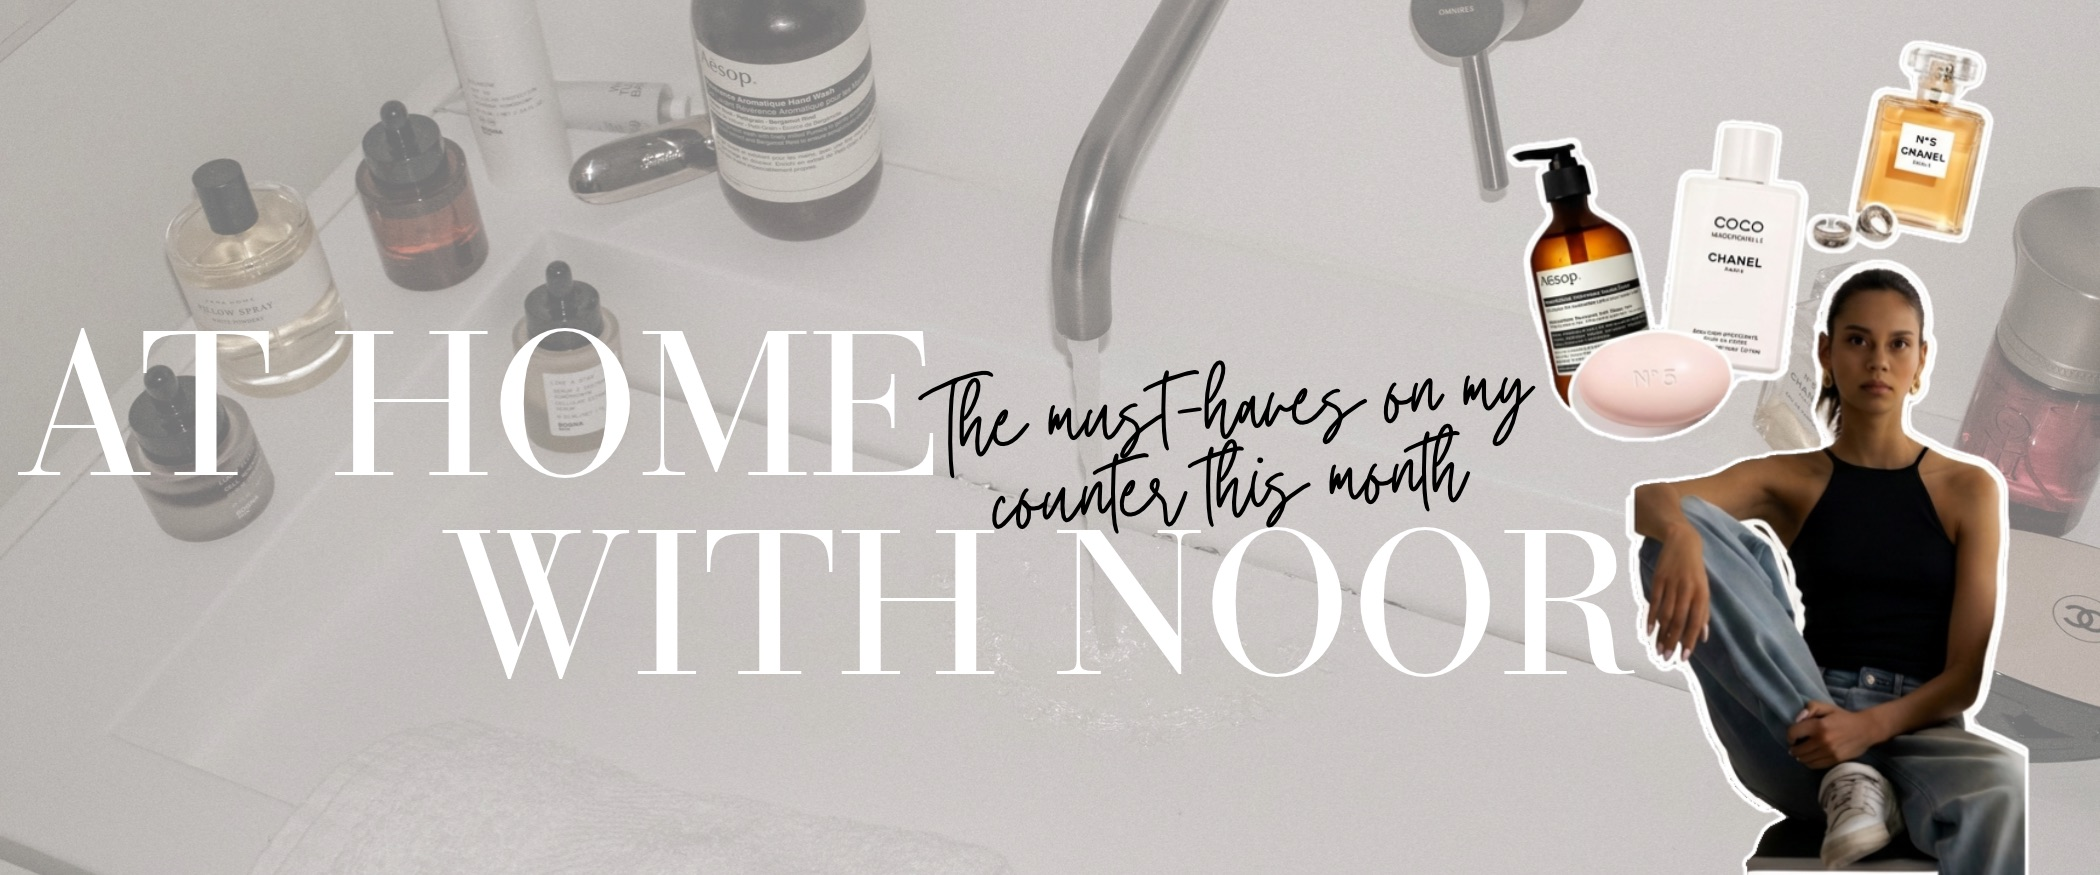
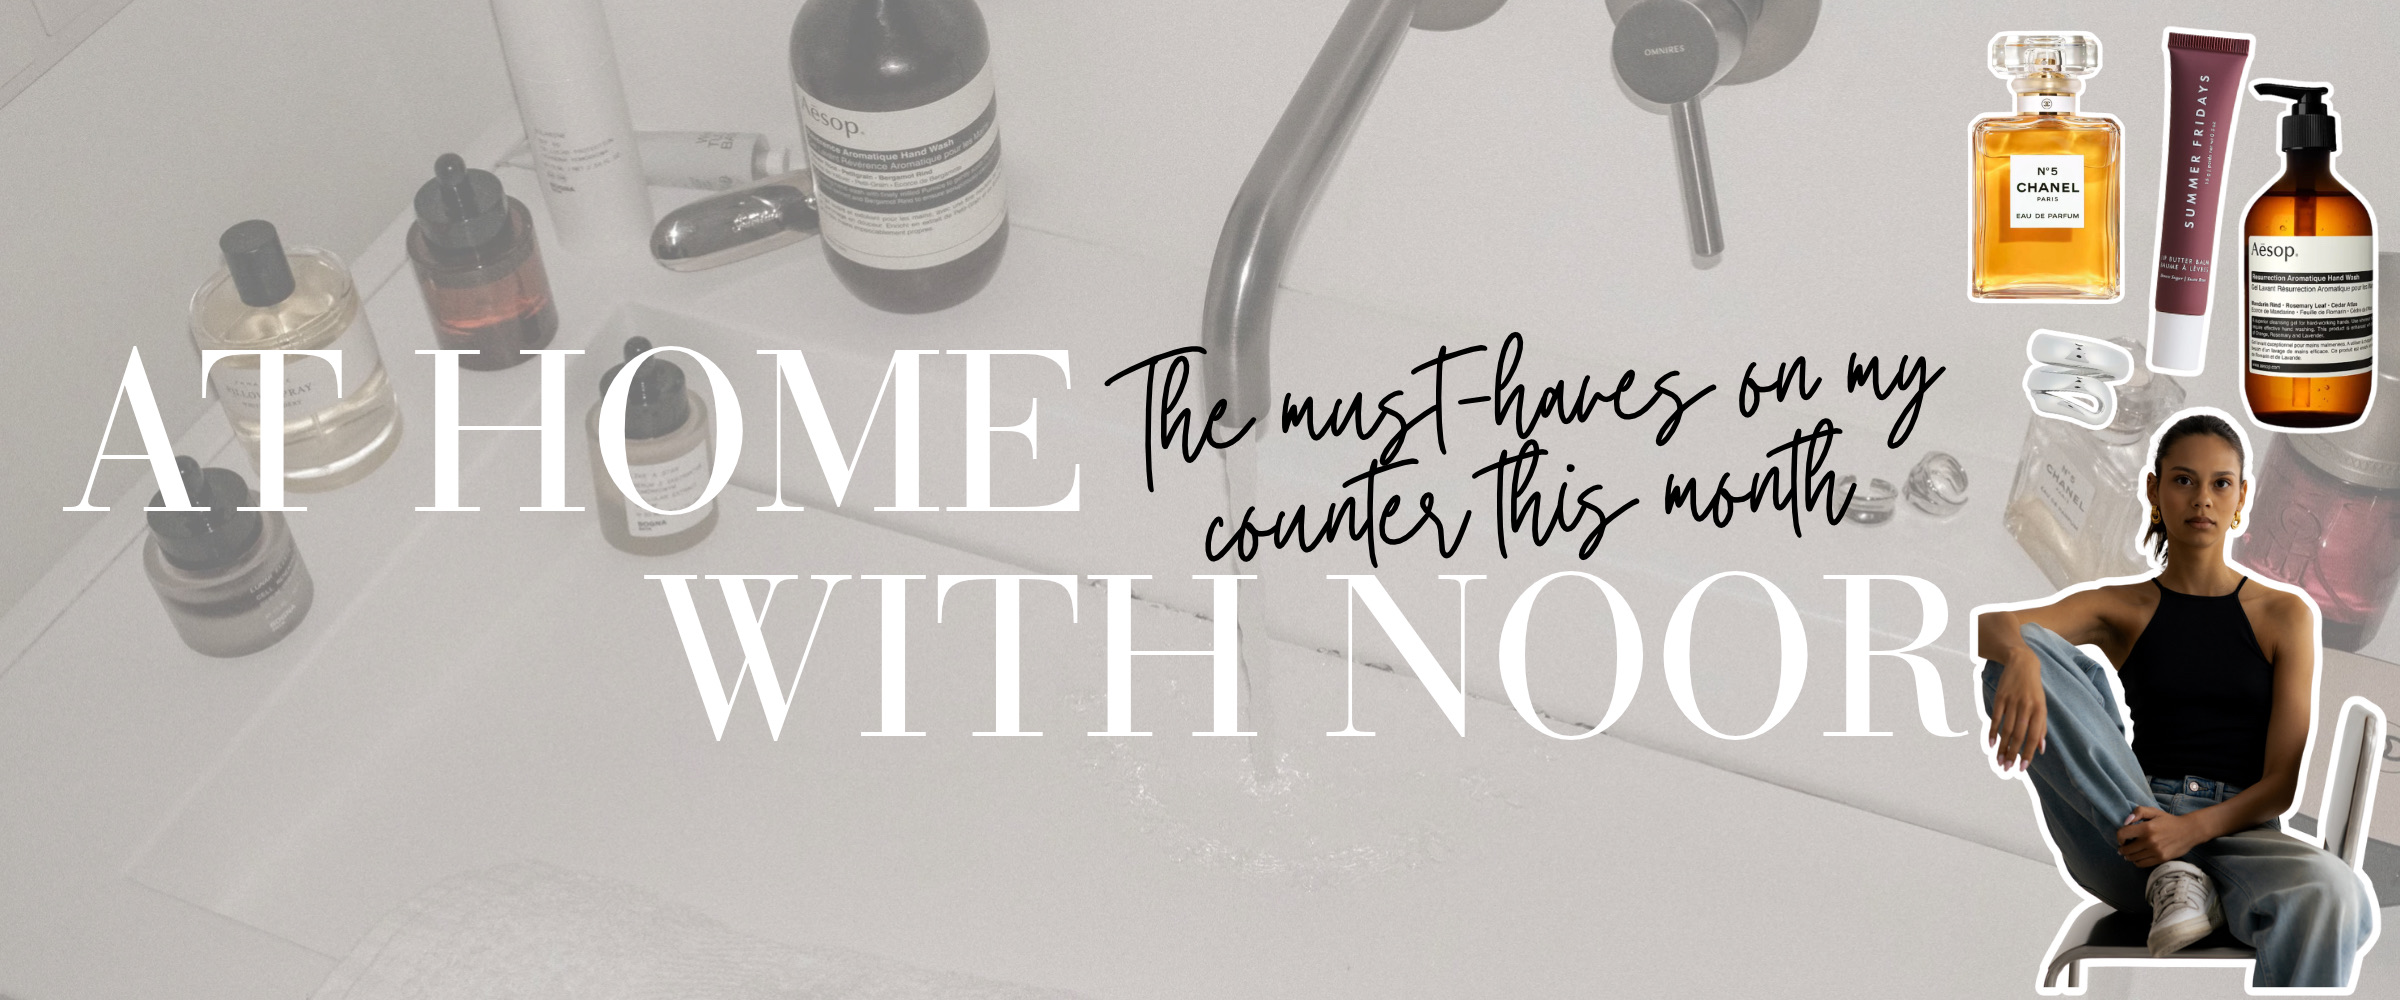
The Skin Office: sharper 2400x1000 'At Home with Noor' collage with the four featured products

diff --git a/the-skin-office/journal.html b/the-skin-office/journal.html
@@ -9,7 +9,7 @@
 <link rel="preconnect" href="https://fonts.googleapis.com">
 <link rel="preconnect" href="https://fonts.gstatic.com" crossorigin>
 <link href="https://fonts.googleapis.com/css2?family=Manrope:wght@300;400;500;600&display=swap" rel="stylesheet">
-<link rel="stylesheet" href="css/style.css?v=5">
+<link rel="stylesheet" href="css/style.css?v=6">
 </head>
 <body>
 <div class="utility">Now booking November<span class="u-extra"> &nbsp;&middot;&nbsp; Gift cards available in the studio</span></div>
@@ -33,7 +33,7 @@
 <section class="section" style="padding-top:0">
   <div class="wrap">
     <a href="at-home-with-noor.html" class="feature-post reveal">
-      <img src="images/hero-collage.jpg" alt="At Home with Noor: the products on her counter this month" width="2100" height="875" loading="lazy">
+      <img src="images/hero-collage.jpg" alt="At Home with Noor: the products on her counter this month" width="2400" height="1000" loading="lazy">
       <div class="meta"><span class="eyebrow">At Home with Noor &middot; October 2026</span><h2>The must-haves on my counter this month</h2><span class="link">Shop Noor&rsquo;s picks</span></div>
     </a>
     <div class="journal-grid"><article class="post-card reveal"><a href="journal-barrier.html"><div class="ph "><img src="images/journal-barrier.jpg" alt="" loading="lazy"><div class="ph-label"><span>Journal collage</span><small>1600 &times; 1600 &mdash; coming soon</small></div></div></a><time class="eyebrow" datetime="2026-10-14">October 14, 2026</time><h3><a href="journal-barrier.html">Your Skin Barrier, Explained</a></h3><a href="journal-barrier.html" class="link">Read</a></article><article class="post-card reveal"><a href="journal-first-facial.html"><div class="ph "><img src="images/journal-first-facial.jpg" alt="" loading="lazy"><div class="ph-label"><span>Journal collage</span><small>1600 &times; 1600 &mdash; coming soon</small></div></div></a><time class="eyebrow" datetime="2026-09-30">September 30, 2026</time><h3><a href="journal-first-facial.html">What Actually Happens in Your First Facial</a></h3><a href="journal-first-facial.html" class="link">Read</a></article><article class="post-card reveal"><a href="journal-spf.html"><div class="ph "><img src="images/journal-spf.jpg" alt="" loading="lazy"><div class="ph-label"><span>Journal collage</span><small>1600 &times; 1600 &mdash; coming soon</small></div></div></a><time class="eyebrow" datetime="2026-09-09">September 9, 2026</time><h3><a href="journal-spf.html">Why We Still Talk About SPF in November</a></h3><a href="journal-spf.html" class="link">Read</a></article></div>
@@ -65,6 +65,6 @@
     <div class="footer-bottom"><span>&copy; 2026 The Skin Office</span><span>A Meridian Haus concept site</span></div>
   </div>
 </footer>
-<script src="js/main.js?v=5"></script>
+<script src="js/main.js?v=6"></script>
 </body>
 </html>

diff --git a/the-skin-office/at-home-with-noor.html b/the-skin-office/at-home-with-noor.html
@@ -9,7 +9,7 @@
 <link rel="preconnect" href="https://fonts.googleapis.com">
 <link rel="preconnect" href="https://fonts.gstatic.com" crossorigin>
 <link href="https://fonts.googleapis.com/css2?family=Manrope:wght@300;400;500;600&display=swap" rel="stylesheet">
-<link rel="stylesheet" href="css/style.css?v=5">
+<link rel="stylesheet" href="css/style.css?v=6">
 </head>
 <body>
 <div class="utility">Now booking November<span class="u-extra"> &nbsp;&middot;&nbsp; Gift cards available in the studio</span></div>
@@ -31,7 +31,7 @@
       <p class="meta">A monthly look at what our founder, Noor Haddad, actually uses at home</p>
     </div>
   </header>
-  <div class="wrap"><img class="noor-hero" src="images/hero-collage.jpg" alt="Collage of Noor with the products on her bathroom counter" width="2100" height="875"></div>
+  <div class="wrap"><img class="noor-hero" src="images/hero-collage.jpg" alt="Collage of Noor with the products on her bathroom counter" width="2400" height="1000"></div>
   <div class="post-body" style="padding-bottom:clamp(24px,3vw,40px)">
     <p>People assume an esthetician&rsquo;s bathroom is full of serums. Mine mostly isn&rsquo;t. Most of what my skin needs happens in the treatment room; at home I keep it short, and I keep the things that make the routine feel like a ritual rather than a chore.</p>
     <p>Here is what is on my counter this month. Nothing here is sponsored, and none of it is sold in the studio. These are just the things I keep buying again.</p>
@@ -68,6 +68,6 @@
     <div class="footer-bottom"><span>&copy; 2026 The Skin Office</span><span>A Meridian Haus concept site</span></div>
   </div>
 </footer>
-<script src="js/main.js?v=5"></script>
+<script src="js/main.js?v=6"></script>
 </body>
 </html>

diff --git a/the-skin-office/index.html b/the-skin-office/index.html
@@ -9,7 +9,7 @@
 <link rel="preconnect" href="https://fonts.googleapis.com">
 <link rel="preconnect" href="https://fonts.gstatic.com" crossorigin>
 <link href="https://fonts.googleapis.com/css2?family=Manrope:wght@300;400;500;600&display=swap" rel="stylesheet">
-<link rel="stylesheet" href="css/style.css?v=5">
+<link rel="stylesheet" href="css/style.css?v=6">
 </head>
 <body>
 <div class="utility">Now booking November<span class="u-extra"> &nbsp;&middot;&nbsp; Gift cards available in the studio</span></div>
@@ -26,7 +26,7 @@
 <section class="hero" aria-roledescription="carousel" aria-label="Featured">
   <!-- Slide 1: Julianna's collage (2400x1000 or 2100x875). Hidden until the file exists; stacked above the photo on phones. -->
   <div class="slide slide-collage" hidden>
-    <a href="at-home-with-noor.html" class="slide-hit" aria-label="At Home with Noor: shop her picks"><img src="images/hero-collage.jpg" alt="At Home with Noor: the must-haves on her counter this month" width="2100" height="875"></a>
+    <a href="at-home-with-noor.html" class="slide-hit" aria-label="At Home with Noor: shop her picks"><img src="images/hero-collage.jpg" alt="At Home with Noor: the must-haves on her counter this month" width="2400" height="1000"></a>
   </div>
   <div class="slide slide-photo active">
   <img src="images/hero.jpg" alt="Close portrait of a woman with closed eyes and clear, dewy skin" width="2400" height="1600" class="grade">
@@ -142,6 +142,6 @@
     <div class="footer-bottom"><span>&copy; 2026 The Skin Office</span><span>A Meridian Haus concept site</span></div>
   </div>
 </footer>
-<script src="js/main.js?v=5"></script>
+<script src="js/main.js?v=6"></script>
 </body>
 </html>

diff --git a/the-skin-office/book.html b/the-skin-office/book.html
@@ -9,7 +9,7 @@
 <link rel="preconnect" href="https://fonts.googleapis.com">
 <link rel="preconnect" href="https://fonts.gstatic.com" crossorigin>
 <link href="https://fonts.googleapis.com/css2?family=Manrope:wght@300;400;500;600&display=swap" rel="stylesheet">
-<link rel="stylesheet" href="css/style.css?v=5">
+<link rel="stylesheet" href="css/style.css?v=6">
 </head>
 <body>
 <div class="utility">Now booking November<span class="u-extra"> &nbsp;&middot;&nbsp; Gift cards available in the studio</span></div>
@@ -116,6 +116,6 @@
     <div class="footer-bottom"><span>&copy; 2026 The Skin Office</span><span>A Meridian Haus concept site</span></div>
   </div>
 </footer>
-<script src="js/main.js?v=5"></script>
+<script src="js/main.js?v=6"></script>
 </body>
 </html>

diff --git a/the-skin-office/facials.html b/the-skin-office/facials.html
@@ -9,7 +9,7 @@
 <link rel="preconnect" href="https://fonts.googleapis.com">
 <link rel="preconnect" href="https://fonts.gstatic.com" crossorigin>
 <link href="https://fonts.googleapis.com/css2?family=Manrope:wght@300;400;500;600&display=swap" rel="stylesheet">
-<link rel="stylesheet" href="css/style.css?v=5">
+<link rel="stylesheet" href="css/style.css?v=6">
 </head>
 <body>
 <div class="utility">Now booking November<span class="u-extra"> &nbsp;&middot;&nbsp; Gift cards available in the studio</span></div>
@@ -101,6 +101,6 @@
     <div class="footer-bottom"><span>&copy; 2026 The Skin Office</span><span>A Meridian Haus concept site</span></div>
   </div>
 </footer>
-<script src="js/main.js?v=5"></script>
+<script src="js/main.js?v=6"></script>
 </body>
 </html>

diff --git a/the-skin-office/about.html b/the-skin-office/about.html
@@ -9,7 +9,7 @@
 <link rel="preconnect" href="https://fonts.googleapis.com">
 <link rel="preconnect" href="https://fonts.gstatic.com" crossorigin>
 <link href="https://fonts.googleapis.com/css2?family=Manrope:wght@300;400;500;600&display=swap" rel="stylesheet">
-<link rel="stylesheet" href="css/style.css?v=5">
+<link rel="stylesheet" href="css/style.css?v=6">
 </head>
 <body>
 <div class="utility">Now booking November<span class="u-extra"> &nbsp;&middot;&nbsp; Gift cards available in the studio</span></div>
@@ -94,6 +94,6 @@
     <div class="footer-bottom"><span>&copy; 2026 The Skin Office</span><span>A Meridian Haus concept site</span></div>
   </div>
 </footer>
-<script src="js/main.js?v=5"></script>
+<script src="js/main.js?v=6"></script>
 </body>
 </html>

diff --git a/the-skin-office/contact.html b/the-skin-office/contact.html
@@ -9,7 +9,7 @@
 <link rel="preconnect" href="https://fonts.googleapis.com">
 <link rel="preconnect" href="https://fonts.gstatic.com" crossorigin>
 <link href="https://fonts.googleapis.com/css2?family=Manrope:wght@300;400;500;600&display=swap" rel="stylesheet">
-<link rel="stylesheet" href="css/style.css?v=5">
+<link rel="stylesheet" href="css/style.css?v=6">
 </head>
 <body>
 <div class="utility">Now booking November<span class="u-extra"> &nbsp;&middot;&nbsp; Gift cards available in the studio</span></div>
@@ -83,6 +83,6 @@
     <div class="footer-bottom"><span>&copy; 2026 The Skin Office</span><span>A Meridian Haus concept site</span></div>
   </div>
 </footer>
-<script src="js/main.js?v=5"></script>
+<script src="js/main.js?v=6"></script>
 </body>
 </html>

diff --git a/the-skin-office/journal-barrier.html b/the-skin-office/journal-barrier.html
@@ -9,7 +9,7 @@
 <link rel="preconnect" href="https://fonts.googleapis.com">
 <link rel="preconnect" href="https://fonts.gstatic.com" crossorigin>
 <link href="https://fonts.googleapis.com/css2?family=Manrope:wght@300;400;500;600&display=swap" rel="stylesheet">
-<link rel="stylesheet" href="css/style.css?v=5">
+<link rel="stylesheet" href="css/style.css?v=6">
 </head>
 <body>
 <div class="utility">Now booking November<span class="u-extra"> &nbsp;&middot;&nbsp; Gift cards available in the studio</span></div>
@@ -72,6 +72,6 @@
     <div class="footer-bottom"><span>&copy; 2026 The Skin Office</span><span>A Meridian Haus concept site</span></div>
   </div>
 </footer>
-<script src="js/main.js?v=5"></script>
+<script src="js/main.js?v=6"></script>
 </body>
 </html>

diff --git a/the-skin-office/journal-first-facial.html b/the-skin-office/journal-first-facial.html
@@ -9,7 +9,7 @@
 <link rel="preconnect" href="https://fonts.googleapis.com">
 <link rel="preconnect" href="https://fonts.gstatic.com" crossorigin>
 <link href="https://fonts.googleapis.com/css2?family=Manrope:wght@300;400;500;600&display=swap" rel="stylesheet">
-<link rel="stylesheet" href="css/style.css?v=5">
+<link rel="stylesheet" href="css/style.css?v=6">
 </head>
 <body>
 <div class="utility">Now booking November<span class="u-extra"> &nbsp;&middot;&nbsp; Gift cards available in the studio</span></div>
@@ -71,6 +71,6 @@
     <div class="footer-bottom"><span>&copy; 2026 The Skin Office</span><span>A Meridian Haus concept site</span></div>
   </div>
 </footer>
-<script src="js/main.js?v=5"></script>
+<script src="js/main.js?v=6"></script>
 </body>
 </html>

diff --git a/the-skin-office/journal-spf.html b/the-skin-office/journal-spf.html
@@ -9,7 +9,7 @@
 <link rel="preconnect" href="https://fonts.googleapis.com">
 <link rel="preconnect" href="https://fonts.gstatic.com" crossorigin>
 <link href="https://fonts.googleapis.com/css2?family=Manrope:wght@300;400;500;600&display=swap" rel="stylesheet">
-<link rel="stylesheet" href="css/style.css?v=5">
+<link rel="stylesheet" href="css/style.css?v=6">
 </head>
 <body>
 <div class="utility">Now booking November<span class="u-extra"> &nbsp;&middot;&nbsp; Gift cards available in the studio</span></div>
@@ -69,6 +69,6 @@
     <div class="footer-bottom"><span>&copy; 2026 The Skin Office</span><span>A Meridian Haus concept site</span></div>
   </div>
 </footer>
-<script src="js/main.js?v=5"></script>
+<script src="js/main.js?v=6"></script>
 </body>
 </html>

diff --git a/the-skin-office/CREDITS.md b/the-skin-office/CREDITS.md
@@ -33,7 +33,7 @@ Chosen by Julianna Gimelli.
 
 ## Hero collage
 
-`hero-collage.jpg` ("At Home with Noor"): collage by Julianna Gimelli, built in Canva from Kaboompics photos (seated studio portrait of woman in black top and jeans, 39654; overhead bathroom sink scene with skincare products, 35236) and product cutouts she sourced.
+`hero-collage.jpg` ("At Home with Noor", 2400 × 1000): collage by Julianna Gimelli, built in Canva from Kaboompics photos (seated studio portrait of woman in black top and jeans, 39654; overhead bathroom sink scene with skincare products, 35236) and the product shots listed above.
 
 ## At Home with Noor (product photos)
 
